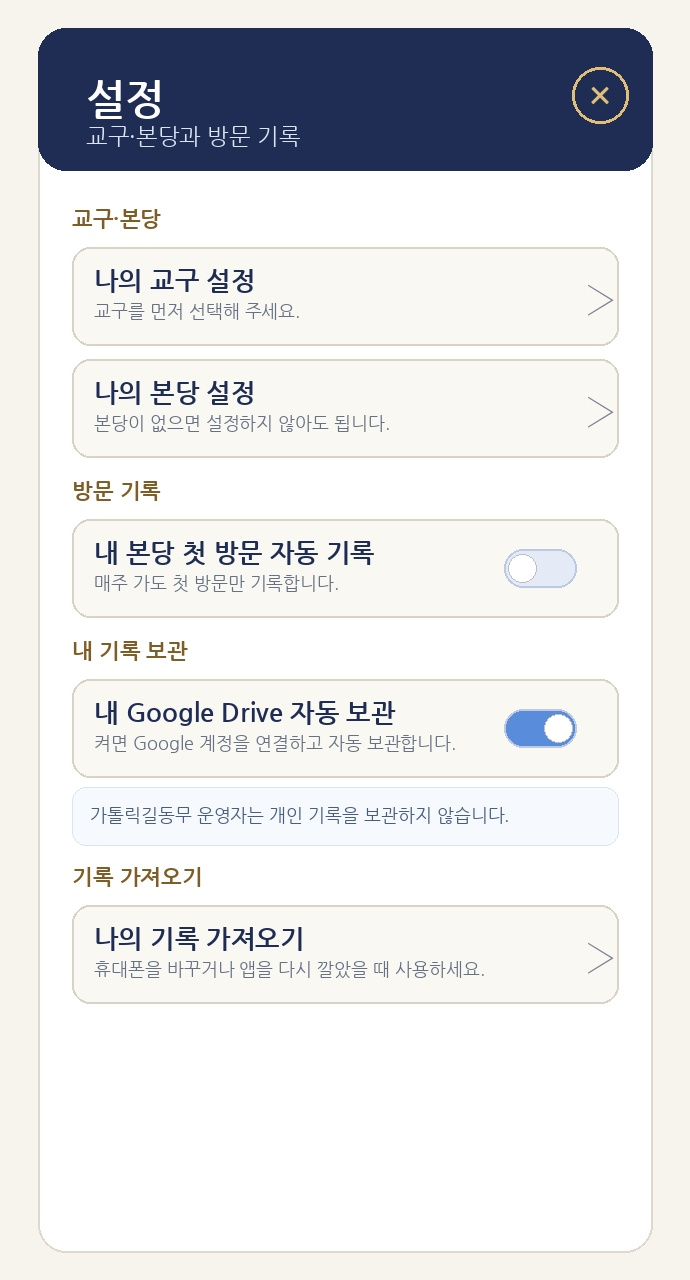
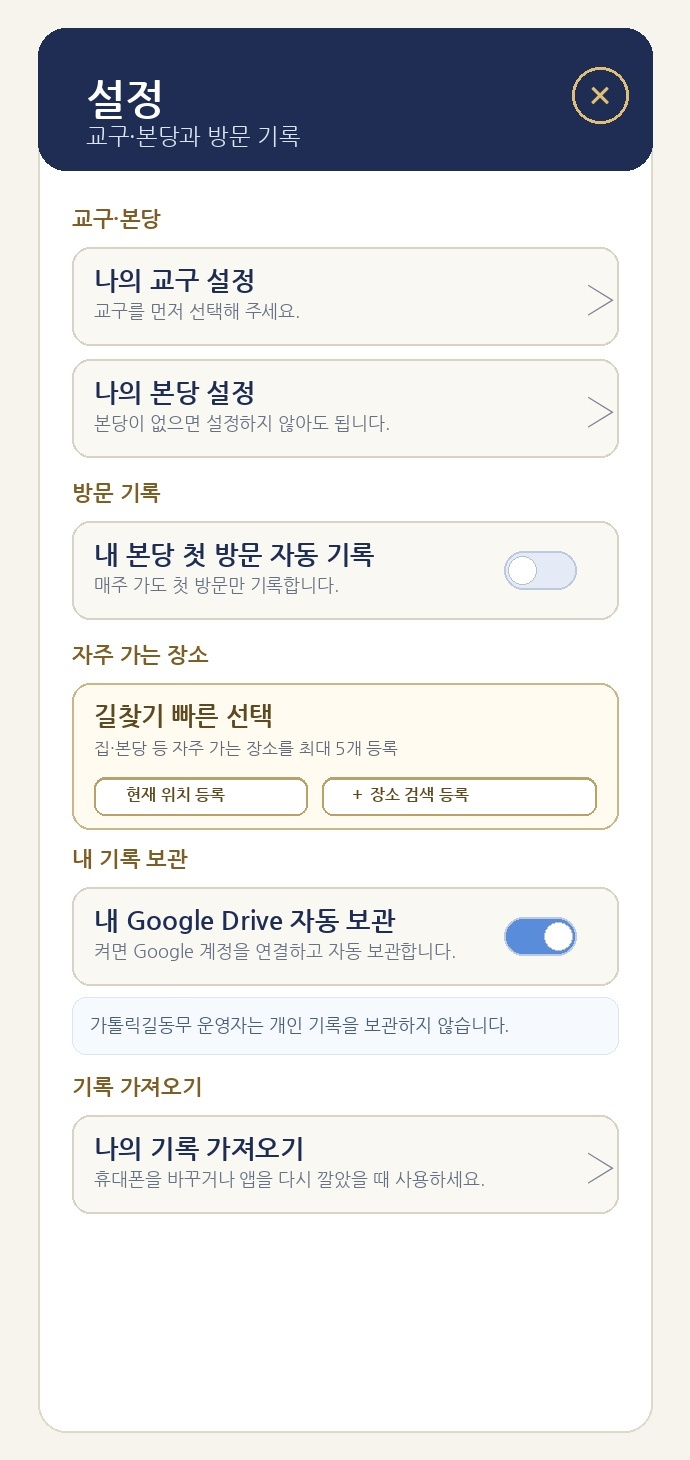
Add files via upload

diff --git a/index.html b/index.html
@@ -956,7 +956,7 @@ window.APP_CONFIG = {
 <link href="https://fonts.googleapis.com/css2?family=Noto+Sans+KR:wght@400;500;600;700&display=swap" rel="stylesheet">
 
 <style id="oai-initial-bg">html,body{margin:0;width:100%;height:100%;min-height:100%;background:#f5f0e8;overflow:hidden;color-scheme:light;}#cover{background:#f5f0e8;min-height:100%;}#app{background:#f8f6f2;display:none;}</style>
-<link rel="stylesheet" href="style.css?v=V8-1-14-842">
+<link rel="stylesheet" href="style.css?v=V8-1-14-844">
 <link rel="stylesheet" href="css/module-common.css?v=V8-1-14-825">
 <link rel="stylesheet" href="css/prayer.css?v=V8-1-14-825">
 <link rel="stylesheet" href="css/web.css?v=V8-1-14-825">
@@ -1112,7 +1112,7 @@ window.APP_CONFIG = {
           <button id="cover-share-btn" class="cover-share-main-btn" type="button" aria-label="앱 공유하기">앱 공유하기</button>
         </div>
         <div id="cover-update-box">
-          <button id="cover-update-btn" class="cover-refresh-main-btn" type="button" data-target-version="V8-1-14-843" aria-label="짧게 누르면 새로고침, 더 길게 누르면 앱 캐시 초기화">새로고침</button>
+          <button id="cover-update-btn" class="cover-refresh-main-btn" type="button" data-target-version="V8-1-14-844" aria-label="짧게 누르면 새로고침, 더 길게 누르면 앱 캐시 초기화">새로고침</button>
           <div id="cover-update-hint" aria-live="polite">아래 버전과 다릅니다. 눌러서 최신 파일을 다시 받아 주세요.</div>
         </div>
       </div>
@@ -1160,7 +1160,7 @@ window.APP_CONFIG = {
         <summary class="guide-section-title"><span>04</span><div><strong>설정</strong><small>교구·본당, 자동 기록, 내 기록 보관</small></div><i aria-hidden="true">⌄</i></summary>
         <div class="guide-shot-wrap"><img class="guide-shot guide-shot-cover" src="assets/guide/cover-home-marked.jpg?v=V8-1-14-843" alt="첫 화면 아래의 설정 버튼 위치 표시" loading="lazy"></div>
         <ol class="guide-steps"><li>첫 화면 아래 <b>설정</b>을 누릅니다.</li><li><b>나의 교구</b>를 먼저 설정합니다. 본당은 필요할 때만 선택하면 됩니다.</li><li><b>내 Google Drive 자동 보관</b>을 켜서 기록을 안전하게 보관합니다.</li></ol>
-        <div class="guide-manual-register"><b>설정 화면</b><div class="guide-manual-photo-grid"><figure><img src="assets/guide/settings-overview.jpg?v=V8-1-14-843" alt="설정 화면 구성"><figcaption><b>교구·본당 설정</b>, <b>내 본당 첫 방문 자동 기록</b>, <b>내 Google Drive 자동 보관</b>, <b>나의 기록 가져오기</b>를 한 화면에서 관리합니다.</figcaption></figure></div></div>
+        <div class="guide-manual-register"><b>설정 화면</b><div class="guide-manual-photo-grid"><figure><img src="assets/guide/settings-overview.jpg?v=V8-1-14-844" alt="설정 화면 구성"><figcaption><b>교구·본당</b>, <b>자주 가는 장소</b>, <b>방문 기록</b>, <b>Google Drive 자동 보관</b>, <b>기록 가져오기</b>를 한 화면에서 관리합니다.</figcaption></figure></div></div>
         <div class="guide-shot-wrap"><img class="guide-shot guide-shot-stamp-ui" src="assets/guide/stampbook-settings-marked.jpg?v=V8-1-14-843" alt="성당 스탬프북 오른쪽의 설정 아이콘 위치 표시" loading="lazy"></div>
         <div class="guide-tip"><b>나의 본당 자동 기록</b>을 켜면 매주 가도 첫 방문만 자동으로 남깁니다.</div>
         <div class="guide-tip"><b>내 Google Drive 자동 보관</b>을 켜면 방문 기록, 즐겨찾기, 교구·본당 설정을 내 Google Drive에 보관합니다. 가톨릭길동무 운영자는 개인 기록을 보관하지 않습니다.</div>
@@ -1219,7 +1219,7 @@ window.APP_CONFIG = {
   </div>
 </div>
 
-<script src="app.js?v=V8-1-14-842"></script>
+<script src="app.js?v=V8-1-14-844"></script>
 <script src="js/cover-common.js?v=V8-1-14-825"></script>
 <div id="oai-category-entry-veil" aria-hidden="true"></div>
 <div id="app"><div id="tabbar"><button id="tab-btn-nearby" class="tab-btn" data-tab="nearby"><span class="tab-icon">📍</span><span id="tab-nearby-lbl">내주변</span></button><button id="tab-btn-list" class="tab-btn" data-tab="list"><span class="tab-icon">📋</span><span id="tab-list-lbl">목록</span></button><button id="tab-btn-region" class="tab-btn" data-tab="region"><span class="tab-icon">🔍</span>지역검색
@@ -1229,27 +1229,27 @@ window.APP_CONFIG = {
             placeholder="지역명 또는 장소명 입력"
             autocomplete="off" autocorrect="off" autocapitalize="off" spellcheck="false" inputmode="search" enterkeyhint="done"></div><button id="region-search-btn" class="region-search-btn">검색</button></div></div><div class="category-source-note" aria-label="정보 출처"><span class="source-shrine">성지 정보는 CBCK 홈페이지를 참고했습니다.</span><span class="source-parish">성당 정보는 각 교구 홈페이지를 참고했습니다.</span><span class="source-retreat">피정의집 정보는 CBCK 및 각 교구 홈페이지를 참고했습니다.</span></div><div class="sheet-body" id="region-body"><div class="empty-msg">
         📍 여행지나 숙박 지역을 검색하면<br>근처 성지/성당 목록이 나타납니다
-      </div></div></div><div class="sheet" id="sheet-route"><button class="route-sheet-x" id="route-close-btn" type="button" aria-label="길찾기 닫기">×</button><div id="rs-top"><div class="rs-route-stack"><div id="rs-start-box" class="rs-start-box" data-route-role="start"><div class="rs-dot rs-dot-start"></div><span class="rs-lbl empty" id="rs-start-lbl">출발지를 선택하세요</span><button id="rs-myloc-btn" class="rs-myloc">📍 현위치</button><button class="rs-fav-save" id="rs-start-fav" type="button" data-route-fav="start" aria-label="출발지를 자주 가는 장소로 저장" title="자주 가는 장소 저장">☆</button><button class="rs-drag-handle" id="rs-start-drag" type="button" data-route-drag="start" aria-label="출발지 순서 이동" title="길게 눌러 순서 이동">⋮⋮</button><button class="rs-x" id="rs-start-x" aria-label="출발지 지우기">×</button></div><div class="rs-between-tools" id="rs-start-waypoint-tools"><button id="rs-swap-btn" class="rs-swap-btn" aria-label="출발지·도착지 바꾸기">⇅</button></div><div id="rs-waypoints-summary-box" class="rs-waypoints-summary-box"><div class="rs-dot rs-waypoints-summary-dot"></div><span class="rs-lbl filled" id="rs-waypoints-summary-lbl">경유지 없음</span></div>
-<div id="rs-waypoint-box" class="rs-waypoint-box" data-route-role="waypoint"><div class="rs-dot rs-dot-waypoint1"></div><span class="rs-lbl empty" id="rs-waypoint-lbl">경유지1을 선택하세요</span><button class="rs-fav-save" id="rs-waypoint-fav" type="button" data-route-fav="waypoint" aria-label="경유지1을 자주 가는 장소로 저장" title="자주 가는 장소 저장">☆</button><button class="rs-drag-handle" id="rs-waypoint-drag" type="button" data-route-drag="waypoint" aria-label="경유지1 순서 이동" title="길게 눌러 순서 이동">⋮⋮</button><button class="rs-x" id="rs-waypoint-x" aria-label="경유지1 지우기">×</button></div>
-<div id="rs-waypoint-end-tools" class="rs-between-tools rs-waypoint-end-tools"><button id="rs-swap-waypoint-end-btn" class="rs-swap-btn rs-swap-waypoint-end-btn" type="button" aria-label="경유지1·다음 지점 바꾸기">⇅</button></div>
-<div id="rs-waypoint2-box" class="rs-waypoint-box rs-waypoint2-box" data-route-role="waypoint2"><div class="rs-dot rs-dot-waypoint2"></div><span class="rs-lbl empty" id="rs-waypoint2-lbl">경유지2를 선택하세요</span><button class="rs-fav-save" id="rs-waypoint2-fav" type="button" data-route-fav="waypoint2" aria-label="경유지2를 자주 가는 장소로 저장" title="자주 가는 장소 저장">☆</button><button class="rs-drag-handle" id="rs-waypoint2-drag" type="button" data-route-drag="waypoint2" aria-label="경유지2 순서 이동" title="길게 눌러 순서 이동">⋮⋮</button><button class="rs-x" id="rs-waypoint2-x" aria-label="경유지2 지우기">×</button></div>
-<div id="rs-waypoint2-end-tools" class="rs-between-tools rs-waypoint2-end-tools"><button id="rs-swap-waypoint2-end-btn" class="rs-swap-btn rs-swap-waypoint2-end-btn" type="button" aria-label="경유지2·다음 지점 바꾸기">⇅</button></div>
-<div id="rs-waypoint3-box" class="rs-waypoint-box rs-waypoint3-box" data-route-role="waypoint3"><div class="rs-dot rs-dot-waypoint3"></div><span class="rs-lbl empty" id="rs-waypoint3-lbl">경유지3을 선택하세요</span><button class="rs-fav-save" id="rs-waypoint3-fav" type="button" data-route-fav="waypoint3" aria-label="경유지3을 자주 가는 장소로 저장" title="자주 가는 장소 저장">☆</button><button class="rs-drag-handle" id="rs-waypoint3-drag" type="button" data-route-drag="waypoint3" aria-label="경유지3 순서 이동" title="길게 눌러 순서 이동">⋮⋮</button><button class="rs-x" id="rs-waypoint3-x" aria-label="경유지3 지우기">×</button></div>
-<div id="rs-waypoint3-end-tools" class="rs-between-tools rs-waypoint3-end-tools"><button id="rs-swap-waypoint3-end-btn" class="rs-swap-btn rs-swap-waypoint3-end-btn" type="button" aria-label="경유지3·다음 지점 바꾸기">⇅</button></div>
-<div id="rs-waypoint4-box" class="rs-waypoint-box rs-waypoint4-box" data-route-role="waypoint4"><div class="rs-dot rs-dot-waypoint4"></div><span class="rs-lbl empty" id="rs-waypoint4-lbl">경유지4를 선택하세요</span><button class="rs-fav-save" id="rs-waypoint4-fav" type="button" data-route-fav="waypoint4" aria-label="경유지4를 자주 가는 장소로 저장" title="자주 가는 장소 저장">☆</button><button class="rs-drag-handle" id="rs-waypoint4-drag" type="button" data-route-drag="waypoint4" aria-label="경유지4 순서 이동" title="길게 눌러 순서 이동">⋮⋮</button><button class="rs-x" id="rs-waypoint4-x" aria-label="경유지4 지우기">×</button></div>
-<div id="rs-waypoint4-end-tools" class="rs-between-tools rs-waypoint4-end-tools"><button id="rs-swap-waypoint4-end-btn" class="rs-swap-btn rs-swap-waypoint4-end-btn" type="button" aria-label="경유지4·다음 지점 바꾸기">⇅</button></div>
-<div id="rs-waypoint5-box" class="rs-waypoint-box rs-waypoint5-box" data-route-role="waypoint5"><div class="rs-dot rs-dot-waypoint5"></div><span class="rs-lbl empty" id="rs-waypoint5-lbl">경유지5를 선택하세요</span><button class="rs-fav-save" id="rs-waypoint5-fav" type="button" data-route-fav="waypoint5" aria-label="경유지5를 자주 가는 장소로 저장" title="자주 가는 장소 저장">☆</button><button class="rs-drag-handle" id="rs-waypoint5-drag" type="button" data-route-drag="waypoint5" aria-label="경유지5 순서 이동" title="길게 눌러 순서 이동">⋮⋮</button><button class="rs-x" id="rs-waypoint5-x" aria-label="경유지5 지우기">×</button></div>
-<div id="rs-waypoint5-end-tools" class="rs-between-tools rs-waypoint5-end-tools"><button id="rs-swap-waypoint5-end-btn" class="rs-swap-btn rs-swap-waypoint5-end-btn" type="button" aria-label="경유지5·도착지 바꾸기">⇅</button></div><div id="rs-end-box" class="rs-end-box" data-route-role="end"><div class="rs-dot rs-dot-end"></div><span class="rs-lbl empty" id="rs-end-lbl">도착지를 선택하세요</span><button class="rs-fav-save" id="rs-end-fav" type="button" data-route-fav="end" aria-label="도착지를 자주 가는 장소로 저장" title="자주 가는 장소 저장">☆</button><button class="rs-drag-handle" id="rs-end-drag" type="button" data-route-drag="end" aria-label="도착지 순서 이동" title="길게 눌러 순서 이동">⋮⋮</button><button class="rs-x" id="rs-end-x" aria-label="도착지 지우기">×</button></div></div><div class="rs-action-row"><button id="rs-search-btn">
+      </div></div></div><div class="sheet" id="sheet-route"><button class="route-sheet-x" id="route-close-btn" type="button" aria-label="길찾기 닫기">×</button><div id="rs-top"><div class="rs-route-stack"><div id="rs-start-box" class="rs-start-box" data-route-role="start"><div class="rs-dot rs-dot-start"></div><span class="rs-lbl empty" id="rs-start-lbl">출발지를 선택하세요</span><button id="rs-start-quick" class="rs-quick-select" type="button" aria-label="출발지 빠른 선택">빠른선택</button><button class="rs-x" id="rs-start-x" aria-label="출발지 지우기">×</button></div><div class="rs-drag-slot rs-start-drag-slot" id="rs-start-waypoint-tools"><button class="rs-drag-handle" id="rs-start-drag" type="button" data-route-drag="start" aria-label="출발지 순서 이동" title="길게 눌러 순서 이동">⋮⋮</button></div><div id="rs-waypoints-summary-box" class="rs-waypoints-summary-box"><div class="rs-dot rs-waypoints-summary-dot"></div><span class="rs-lbl filled" id="rs-waypoints-summary-lbl">경유지 없음</span></div>
+<div id="rs-waypoint-box" class="rs-waypoint-box" data-route-role="waypoint"><div class="rs-dot rs-dot-waypoint1"></div><span class="rs-lbl empty" id="rs-waypoint-lbl">경유지1을 선택하세요</span><button class="rs-x" id="rs-waypoint-x" aria-label="경유지1 지우기">×</button></div>
+<div id="rs-waypoint-end-tools" class="rs-drag-slot rs-waypoint-drag-slot rs-waypoint1-drag-slot"><button class="rs-drag-handle" id="rs-waypoint-drag" type="button" data-route-drag="waypoint" aria-label="경유지1 순서 이동" title="길게 눌러 순서 이동">⋮⋮</button></div>
+<div id="rs-waypoint2-box" class="rs-waypoint-box rs-waypoint2-box" data-route-role="waypoint2"><div class="rs-dot rs-dot-waypoint2"></div><span class="rs-lbl empty" id="rs-waypoint2-lbl">경유지2를 선택하세요</span><button class="rs-x" id="rs-waypoint2-x" aria-label="경유지2 지우기">×</button></div>
+<div id="rs-waypoint2-end-tools" class="rs-drag-slot rs-waypoint-drag-slot rs-waypoint2-drag-slot"><button class="rs-drag-handle" id="rs-waypoint2-drag" type="button" data-route-drag="waypoint2" aria-label="경유지2 순서 이동" title="길게 눌러 순서 이동">⋮⋮</button></div>
+<div id="rs-waypoint3-box" class="rs-waypoint-box rs-waypoint3-box" data-route-role="waypoint3"><div class="rs-dot rs-dot-waypoint3"></div><span class="rs-lbl empty" id="rs-waypoint3-lbl">경유지3을 선택하세요</span><button class="rs-x" id="rs-waypoint3-x" aria-label="경유지3 지우기">×</button></div>
+<div id="rs-waypoint3-end-tools" class="rs-drag-slot rs-waypoint-drag-slot rs-waypoint3-drag-slot"><button class="rs-drag-handle" id="rs-waypoint3-drag" type="button" data-route-drag="waypoint3" aria-label="경유지3 순서 이동" title="길게 눌러 순서 이동">⋮⋮</button></div>
+<div id="rs-waypoint4-box" class="rs-waypoint-box rs-waypoint4-box" data-route-role="waypoint4"><div class="rs-dot rs-dot-waypoint4"></div><span class="rs-lbl empty" id="rs-waypoint4-lbl">경유지4를 선택하세요</span><button class="rs-x" id="rs-waypoint4-x" aria-label="경유지4 지우기">×</button></div>
+<div id="rs-waypoint4-end-tools" class="rs-drag-slot rs-waypoint-drag-slot rs-waypoint4-drag-slot"><button class="rs-drag-handle" id="rs-waypoint4-drag" type="button" data-route-drag="waypoint4" aria-label="경유지4 순서 이동" title="길게 눌러 순서 이동">⋮⋮</button></div>
+<div id="rs-waypoint5-box" class="rs-waypoint-box rs-waypoint5-box" data-route-role="waypoint5"><div class="rs-dot rs-dot-waypoint5"></div><span class="rs-lbl empty" id="rs-waypoint5-lbl">경유지5를 선택하세요</span><button class="rs-x" id="rs-waypoint5-x" aria-label="경유지5 지우기">×</button></div>
+<div id="rs-waypoint5-end-tools" class="rs-drag-slot rs-waypoint-drag-slot rs-waypoint5-drag-slot"><button class="rs-drag-handle" id="rs-waypoint5-drag" type="button" data-route-drag="waypoint5" aria-label="경유지5 순서 이동" title="길게 눌러 순서 이동">⋮⋮</button></div><div id="rs-end-box" class="rs-end-box" data-route-role="end"><div class="rs-dot rs-dot-end"></div><span class="rs-lbl empty" id="rs-end-lbl">도착지를 선택하세요</span><button id="rs-end-quick" class="rs-quick-select" type="button" aria-label="도착지 빠른 선택">빠른선택</button><button class="rs-x" id="rs-end-x" aria-label="도착지 지우기">×</button></div><div id="rs-end-drag-slot" class="rs-drag-slot rs-end-drag-slot"><button class="rs-drag-handle" id="rs-end-drag" type="button" data-route-drag="end" aria-label="도착지 순서 이동" title="길게 눌러 순서 이동">⋮⋮</button></div></div><div class="rs-action-row"><button id="rs-search-btn">
         🔍 경로 검색
-      </button><button id="rs-add-waypoint-btn" class="rs-add-waypoint-btn" type="button">+ 경유지</button></div><section id="route-itinerary" class="route-itinerary" aria-label="전체 순례 일정" hidden><div class="route-itinerary-head"><strong>전체 순례 일정</strong><button id="route-itinerary-toggle" type="button" aria-expanded="true">접기</button></div><div id="route-itinerary-summary" class="route-itinerary-summary"></div><div id="route-itinerary-list" class="route-itinerary-list"></div></section></div><div id="rs-bottom"><div id="rs-result-tip" class="rs-result-tip" aria-live="polite">마커를 클릭하면 목적지를 변경할 수 있습니다</div><div id="rs-result"><div class="rs-result"><div class="rs-stats"><div class="rs-stat"><div class="rs-stat-lbl">🛣 도로 거리</div><div class="rs-stat-val"><span id="rs-km">—</span><span class="rs-stat-unit"> km</span></div></div><div class="rs-stat"><div class="rs-stat-lbl">🚗 소요시간</div><div class="rs-stat-val"><span id="rs-time">—</span></div></div></div><div class="rs-note" id="rs-note"></div><div class="route-btns"><button id="rs-kakao-btn" class="btn-kakao-route">🗺 카카오내비</button><button id="rs-reset-btn" class="btn-route-reset">↩ 다시선택</button></div></div></div><div class="rs-hint" id="rs-hint" aria-hidden="true"></div></div></div><div id="info-card"><div class="ic-header"><div class="ic-name" id="ic-name"></div><span class="ic-type-badge" id="ic-type"></span><button id="ic-close-btn" class="ic-close-btn" aria-label="닫기">×</button></div><div class="ic-body"><div class="ic-meta"><div class="ic-meta-left"><span class="ic-sub" id="ic-sub"></span><span class="ic-shrine-kind" id="ic-shrine-kind" style="display:none"></span></div><div class="ic-dist-col" id="ic-dist-col"><div class="ic-dist-lbl">내 위치에서</div><div class="ic-dist-box" id="ic-dist"></div></div></div><div class="ic-addr-row"><div class="ic-addr-left"><div class="ic-addr-lbl"></div><div class="ic-addr-val" id="ic-addr"></div></div></div><div class="ic-btn-row"><a class="ic-tel-btn" id="ic-tel-link" href="#" style="display:none"><span class="ic-tel-icon">📞</span><span class="ic-tel" id="ic-tel"></span></a><button id="ic-route-btn" class="ic-route-btn">경로검색</button></div><div class="ic-links" id="ic-links-row" style="display:none"><a class="ic-link-btn ic-hp-btn" id="ic-hp" href="#" target="_blank" style="display:none">홈페이지</a><button class="ic-link-btn ic-guide-btn" id="ic-guide" style="display:none">성지 상세페이지</button></div><div class="ic-kakao-row" id="ic-kakao-row"><button class="ic-link-btn ic-goodnews-btn" id="ic-goodnews" style="display:none">굿뉴스 성지안내</button><button class="btn-kakao-nav" id="ic-kakao-nav">카카오내비</button></div></div></div><div id="route-choice-modal" role="dialog" aria-modal="true" aria-label="경로검색 선택"><div id="route-choice-backdrop" class="route-choice-backdrop"></div><div class="route-choice-panel"><div class="route-choice-title" id="route-choice-name"></div><div class="route-choice-desc">이 장소를 길찾기에 어떻게 사용할까요?</div><div class="route-choice-actions"><button type="button" id="route-choice-start" class="route-choice-btn start">출발지로 설정</button><button type="button" id="route-choice-end" class="route-choice-btn end">도착지로 설정</button><button type="button" id="route-choice-waypoint" class="route-choice-btn waypoint">경유지로 설정</button><button type="button" id="route-choice-cancel" class="route-choice-btn cancel">취소</button></div></div></div><div id="srch-modal" role="dialog" aria-modal="true" aria-label="장소 검색"><div class="sm-inner"><div class="sm-hd"><span class="sm-title" id="sm-title">성지 검색</span><button id="sm-close-btn" class="sm-x" aria-label="검색 닫기">×</button></div><div class="sm-filter" id="sm-filter-bar"></div><div class="sm-srch"><div class="sm-si"><span>🔍</span><input type="text" id="sm-inp" placeholder="이름 또는 장소 입력" aria-label="장소 이름 입력"
-            autocomplete="off" autocorrect="off" autocapitalize="off" spellcheck="false" inputmode="search" enterkeyhint="done"></div><button type="button" id="sm-map-select-btn" class="sm-map-select-btn">지도에서 선택</button></div><section id="sm-frequent-places" class="sm-frequent-places" aria-label="자주 가는 장소"><div class="sm-frequent-head"><strong>자주 가는 장소</strong><span>최대 5개</span></div><div id="sm-frequent-list" class="sm-frequent-list"></div></section><div id="sm-tab-bar"><button class="sm-tab active" id="sm-tab-all">전체</button><button class="sm-tab" id="sm-tab-cat">가톨릭 장소</button><button class="sm-tab" id="sm-tab-place">일반 장소</button></div><div class="sm-body" id="sm-body-all"></div><div class="sm-body" id="sm-body" style="display:none;"></div><div class="sm-body" id="sm-body-place" style="display:none;"></div></div></div></div>
+      </button><button id="rs-add-waypoint-btn" class="rs-add-waypoint-btn" type="button">+ 경유지</button></div><section id="route-itinerary" class="route-itinerary" aria-label="전체 순례 일정" hidden><div class="route-itinerary-head"><strong>전체 순례 일정</strong><button id="route-itinerary-toggle" type="button" aria-expanded="true">접기</button></div><div id="route-itinerary-summary" class="route-itinerary-summary"></div><div id="route-itinerary-list" class="route-itinerary-list"></div></section></div><div id="rs-bottom"><div id="rs-result-tip" class="rs-result-tip" aria-live="polite">마커를 클릭하면 목적지를 변경할 수 있습니다</div><div id="rs-result"><div class="rs-result"><div class="rs-stats"><div class="rs-stat"><div class="rs-stat-lbl">🛣 도로 거리</div><div class="rs-stat-val"><span id="rs-km">—</span><span class="rs-stat-unit"> km</span></div></div><div class="rs-stat"><div class="rs-stat-lbl">🚗 소요시간</div><div class="rs-stat-val"><span id="rs-time">—</span></div></div></div><div class="rs-note" id="rs-note"></div><div class="route-btns"><button id="rs-kakao-btn" class="btn-kakao-route">🗺 카카오내비</button><button id="rs-reset-btn" class="btn-route-reset">↩ 다시선택</button></div></div></div><div class="rs-hint" id="rs-hint" aria-hidden="true"></div></div></div><div id="info-card"><div class="ic-header"><div class="ic-name" id="ic-name"></div><span class="ic-type-badge" id="ic-type"></span><button id="ic-close-btn" class="ic-close-btn" aria-label="닫기">×</button></div><div class="ic-body"><div class="ic-meta"><div class="ic-meta-left"><span class="ic-sub" id="ic-sub"></span><span class="ic-shrine-kind" id="ic-shrine-kind" style="display:none"></span></div><div class="ic-dist-col" id="ic-dist-col"><div class="ic-dist-lbl">내 위치에서</div><div class="ic-dist-box" id="ic-dist"></div></div></div><div class="ic-addr-row"><div class="ic-addr-left"><div class="ic-addr-lbl"></div><div class="ic-addr-val" id="ic-addr"></div></div></div><div class="ic-btn-row"><a class="ic-tel-btn" id="ic-tel-link" href="#" style="display:none"><span class="ic-tel-icon">📞</span><span class="ic-tel" id="ic-tel"></span></a><button id="ic-route-btn" class="ic-route-btn">경로검색</button></div><div class="ic-links" id="ic-links-row" style="display:none"><a class="ic-link-btn ic-hp-btn" id="ic-hp" href="#" target="_blank" style="display:none">홈페이지</a><button class="ic-link-btn ic-guide-btn" id="ic-guide" style="display:none">성지 상세페이지</button></div><div class="ic-kakao-row" id="ic-kakao-row"><button class="ic-link-btn ic-goodnews-btn" id="ic-goodnews" style="display:none">굿뉴스 성지안내</button><button class="btn-kakao-nav" id="ic-kakao-nav">카카오내비</button></div></div></div><div id="route-choice-modal" role="dialog" aria-modal="true" aria-label="경로검색 선택"><div id="route-choice-backdrop" class="route-choice-backdrop"></div><div class="route-choice-panel"><div class="route-choice-title" id="route-choice-name"></div><div class="route-choice-desc">이 장소를 길찾기에 어떻게 사용할까요?</div><div class="route-choice-actions"><button type="button" id="route-choice-start" class="route-choice-btn start">출발지로 설정</button><button type="button" id="route-choice-end" class="route-choice-btn end">도착지로 설정</button><button type="button" id="route-choice-waypoint" class="route-choice-btn waypoint">경유지로 설정</button><button type="button" id="route-choice-cancel" class="route-choice-btn cancel">취소</button></div></div></div><div id="route-quick-modal" class="route-quick-modal" role="dialog" aria-modal="true" aria-labelledby="route-quick-title" aria-hidden="true"><div class="route-quick-backdrop" data-route-quick-close="1"></div><div class="route-quick-panel"><div class="route-quick-head"><div><strong id="route-quick-title">빠른 선택</strong><small>현재 위치 또는 설정에 등록한 장소를 선택하세요.</small></div><button type="button" data-route-quick-close="1" aria-label="빠른 선택 닫기">×</button></div><div id="route-quick-list" class="route-quick-list"></div><button type="button" class="route-quick-settings" data-route-quick-settings="1">설정에서 자주 가는 장소 관리</button></div></div><div id="srch-modal" role="dialog" aria-modal="true" aria-label="장소 검색"><div class="sm-inner"><div class="sm-hd"><span class="sm-title" id="sm-title">성지 검색</span><button id="sm-close-btn" class="sm-x" aria-label="검색 닫기">×</button></div><div class="sm-filter" id="sm-filter-bar"></div><div class="sm-srch"><div class="sm-si"><span>🔍</span><input type="text" id="sm-inp" placeholder="이름 또는 장소 입력" aria-label="장소 이름 입력"
+            autocomplete="off" autocorrect="off" autocapitalize="off" spellcheck="false" inputmode="search" enterkeyhint="done"></div><button type="button" id="sm-map-select-btn" class="sm-map-select-btn">지도에서 선택</button></div><div id="sm-tab-bar"><button class="sm-tab active" id="sm-tab-all">전체</button><button class="sm-tab" id="sm-tab-cat">가톨릭 장소</button><button class="sm-tab" id="sm-tab-place">일반 장소</button></div><div class="sm-body" id="sm-body-all"></div><div class="sm-body" id="sm-body" style="display:none;"></div><div class="sm-body" id="sm-body-place" style="display:none;"></div></div></div></div>
 <div id="oai-settings-modal" class="oai-settings-modal" aria-hidden="true">
   <div class="oai-settings-backdrop" data-oai-settings-close="1"></div>
   <section class="oai-settings-panel" role="dialog" aria-modal="true" aria-labelledby="oai-settings-title">
     <header class="oai-settings-head"><div><h2 id="oai-settings-title">설정</h2><p>교구·본당과 방문 기록</p></div><button type="button" data-oai-settings-close="1" aria-label="설정 닫기">×</button></header>
     <div class="oai-settings-body">
       <section class="oai-settings-group"><h3>교구·본당</h3><div id="oai-settings-diocese-parish-row" class="oai-settings-row oai-settings-edit-row" data-oai-settings-edit="1" role="button" tabindex="0" aria-label="나의 교구와 본당 설정" hidden><span><b id="oai-settings-diocese-parish-summary">나의 교구와 본당</b><small>나의 교구와 본당 홈페이지는 가톨릭 웹사이트 즐겨찾기 제일 위에서 확인하세요.</small></span><i class="oai-settings-arrow" aria-hidden="true">›</i></div><div id="oai-settings-diocese-row" class="oai-settings-row oai-settings-edit-row" data-oai-settings-diocese="1" role="button" tabindex="0" aria-label="나의 교구 설정"><span><b id="oai-settings-diocese-summary">나의 교구 설정</b><small>교구 홈페이지는 가톨릭 웹사이트 즐겨찾기 제일 위에서 확인하세요.</small></span><i class="oai-settings-arrow" aria-hidden="true">›</i></div><div id="oai-settings-parish-row" class="oai-settings-row oai-settings-edit-row" data-oai-settings-parish="1" role="button" tabindex="0" aria-label="나의 본당 설정"><span><b id="oai-settings-parish-summary">나의 본당 설정</b><small>본당이 없으면 설정하지 않아도 됩니다.</small></span><i class="oai-settings-arrow" aria-hidden="true">›</i></div></section>
-      <section class="oai-settings-group"><h3>방문 기록</h3><div class="oai-settings-row oai-settings-switch-row"><span><b>내 본당 첫 방문 자동 기록</b><small>매주 가도 첫 방문만 기록합니다.</small></span><label class="oai-settings-switch"><input id="oai-settings-auto-visit" type="checkbox" role="switch" aria-label="내 본당 첫 방문 자동 기록"><i aria-hidden="true"></i></label></div></section>
+      <section class="oai-settings-group"><h3>방문 기록</h3><div class="oai-settings-row oai-settings-switch-row"><span><b>내 본당 첫 방문 자동 기록</b><small>매주 가도 첫 방문만 기록합니다.</small></span><label class="oai-settings-switch"><input id="oai-settings-auto-visit" type="checkbox" role="switch" aria-label="내 본당 첫 방문 자동 기록"><i aria-hidden="true"></i></label></div></section><section class="oai-settings-group"><h3>자주 가는 장소</h3><div class="oai-settings-frequent-info"><b>길찾기 빠른 선택</b><p>집, 본당처럼 자주 출발하거나 도착하는 장소를 최대 5개까지 등록할 수 있습니다. 길찾기의 <b>빠른선택</b>에서 현재 위치와 함께 바로 선택할 수 있습니다.</p></div><div id="oai-settings-frequent-list" class="oai-settings-frequent-list"></div><div class="oai-settings-frequent-actions"><button type="button" data-oai-frequent-current="1">📍 현재 위치 등록</button><button type="button" data-oai-frequent-add="1">＋ 장소 검색 등록</button></div></section>
       <section class="oai-settings-group"><h3>내 기록 보관</h3><div class="oai-settings-row oai-settings-switch-row"><span><b class="oai-drive-setting-title">내 Google Drive 자동 보관</b><small class="oai-google-drive-description">켜면 Google 계정을 연결하고 기록을 자동으로 보관합니다.</small></span><label class="oai-settings-switch"><input id="oai-settings-google-drive-auto" data-oai-google-auto="1" type="checkbox" role="switch" aria-label="내 Google Drive에 자동 보관"><i aria-hidden="true"></i></label></div><p class="oai-settings-note oai-google-drive-note">가톨릭길동무 운영자는 개인 기록을 보관하지 않습니다.</p></section>
       <section class="oai-settings-group"><h3>기록 가져오기</h3><div class="oai-settings-row oai-settings-edit-row" data-oai-records-open="1" role="button" tabindex="0" aria-label="나의 기록 가져오기"><span><b>나의 기록 가져오기</b><small>휴대폰을 바꾸거나 앱을 다시 깔았을 때 사용하세요.</small></span><i class="oai-settings-arrow" aria-hidden="true">›</i></div></section>
     </div>

diff --git a/app.js b/app.js
@@ -8790,16 +8790,19 @@ function _routeWaypointColor(role){
 function _routeRoleColor(role){
   if(role==='start') return '#E53935';
   if(role==='end') return '#2E7D32';
+  if(role==='frequent-register') return '#5b6f89';
   return _routeWaypointColor(role);
 }
 function _routeRoleShort(role){
   if(role==='start') return '출';
   if(role==='end') return '도';
+  if(role==='frequent-register') return '저장';
   return '경'+_routeWaypointIndex(role);
 }
 function _routeSearchTitle(role,noun){
   if(role==='start') return `🔵 출발 ${noun} 검색`;
   if(role==='end') return `🔴 도착 ${noun} 검색`;
+  if(role==='frequent-register') return `📌 자주 가는 ${noun} 검색`;
   return `🟠 경유지${_routeWaypointIndex(role)} ${noun} 검색`;
 }
 function _routeWaypointMarkerText(role){
@@ -11232,8 +11235,8 @@ function _syncRouteWaypointBoxes(){
   }
   const tools0=$('rs-start-waypoint-tools');
   const swap0=$('rs-swap-btn');
-  if(tools0) tools0.style.display=resultShowing?'none':'block';
-  if(swap0) swap0.style.display=resultShowing?'none':'flex';
+  if(tools0) tools0.style.display=resultShowing?'none':'flex';
+  if(swap0) swap0.style.display='none';
 }
 
 function _ensureRouteWaypointBox(role){
@@ -11349,7 +11352,89 @@ function _removeRouteFrequentPlace(index){
   const list=_loadRouteFavorites();
   if(index<0||index>=list.length) return;
   list.splice(index,1); _saveRouteFavorites(list);
-  _renderRouteFrequentPlaces(); _updateAllRouteFavoriteButtons();
+  _renderRouteFrequentPlaces(); _updateAllRouteFavoriteButtons(); _renderRouteFrequentSettings();
+}
+function _addRouteFrequentPlace(point){
+  if(!point||!point.name||!Number.isFinite(Number(point.lat))||!Number.isFinite(Number(point.lng))) return false;
+  let list=_loadRouteFavorites();
+  if(list.some(function(f){return _routeFavoriteSame(f,point);})){ alert('이미 등록된 장소입니다.'); return false; }
+  if(list.length>=OAI_ROUTE_FAVORITES_MAX){ alert('자주 가는 장소는 최대 '+OAI_ROUTE_FAVORITES_MAX+'개까지 등록할 수 있습니다.'); return false; }
+  list.push({name:String(point.name||'장소').trim(),addr:String(point.addr||''),lat:Number(point.lat),lng:Number(point.lng),sourceMode:String(point.sourceMode||_mode||''),savedAt:Date.now()});
+  _saveRouteFavorites(list);
+  _renderRouteFrequentSettings();
+  return true;
+}
+function _renderRouteFrequentSettings(){
+  const body=$('oai-settings-frequent-list');
+  if(!body) return;
+  const list=_loadRouteFavorites();
+  if(!list.length){ body.innerHTML='<div class="oai-settings-frequent-empty">아직 등록된 장소가 없습니다. 아래 버튼으로 집, 본당, 직장 등 자주 이용하는 장소를 등록하세요.</div>'; return; }
+  body.innerHTML=list.map(function(f,i){
+    return '<div class="oai-settings-frequent-item"><span><b>'+_placeText(f.name)+'</b><small>'+_placeText(f.addr||'등록된 장소')+'</small></span><button type="button" data-oai-frequent-remove="'+i+'" aria-label="'+_placeText(f.name)+' 삭제">×</button></div>';
+  }).join('');
+}
+function _registerFrequentCurrentLocation(){
+  if(_loadRouteFavorites().length>=OAI_ROUTE_FAVORITES_MAX){ alert('자주 가는 장소는 최대 '+OAI_ROUTE_FAVORITES_MAX+'개까지 등록할 수 있습니다.'); return; }
+  const name=String(prompt('현재 위치를 어떤 이름으로 저장할까요? 예: 집, 월배성당','집')||'').trim();
+  if(!name) return;
+  function save(lat,lng){
+    if(_addRouteFrequentPlace({name:name,addr:'현재 위치에서 등록',lat:Number(lat),lng:Number(lng),sourceMode:'current-location'})) _showRouteGuideText(name+'을(를) 자주 가는 장소에 등록했습니다');
+  }
+  if(!_GEO){
+    const used=_useStoredLocationIfAny(function(lat,lng){save(lat,lng);},OAI_LOCATION_CACHE_MAX_MS);
+    if(!used) alert('위치 정보를 가져올 수 없습니다.');
+    return;
+  }
+  _refreshFreshLocationThen(function(lat,lng){save(lat,lng);},function(){
+    const used=_useStoredLocationIfAny(function(lat,lng){save(lat,lng);},OAI_LOCATION_CACHE_MAX_MS);
+    if(!used) alert('위치 정보를 가져올 수 없습니다.');
+  });
+}
+function _registerFrequentFromSearch(item){
+  if(!item) return false;
+  const ok=_addRouteFrequentPlace({name:item.name||'장소',addr:item.addr||item.road_address_name||item.address_name||'',lat:Number(item.lat),lng:Number(item.lng),sourceMode:_mode||''});
+  if(ok){
+    closeSearchModal();
+    setTimeout(function(){ if(typeof window.openOaiSettings==='function') window.openOaiSettings({fromFrequentRegister:true}); },30);
+  }
+  return ok;
+}
+let _routeQuickRole='start';
+function _renderRouteQuickList(){
+  const body=$('route-quick-list'); if(!body) return;
+  const list=_loadRouteFavorites();
+  let html='<button type="button" class="route-quick-item current" data-route-quick-current="1"><span class="icon">📍</span><span><b>현재 위치</b><small>휴대폰의 현재 위치를 사용합니다.</small></span></button>';
+  html+=list.map(function(f,i){return '<button type="button" class="route-quick-item" data-route-quick-index="'+i+'"><span class="icon">★</span><span><b>'+_placeText(f.name)+'</b><small>'+_placeText(f.addr||'등록된 장소')+'</small></span></button>';}).join('');
+  if(!list.length) html+='<div class="route-quick-empty">등록된 자주 가는 장소가 없습니다. 설정에서 최대 5개까지 등록할 수 있습니다.</div>';
+  body.innerHTML=html;
+}
+function _openRouteQuick(role){
+  if(role!=='start'&&role!=='end') return;
+  _routeQuickRole=role;
+  const m=$('route-quick-modal'); if(!m) return;
+  const title=$('route-quick-title'); if(title) title.textContent=(role==='start'?'출발지':'도착지')+' 빠른 선택';
+  _renderRouteQuickList();
+  m.classList.add('show'); m.setAttribute('aria-hidden','false');
+}
+function _closeRouteQuick(){const m=$('route-quick-modal');if(!m)return;m.classList.remove('show');m.setAttribute('aria-hidden','true');}
+function _setCurrentLocationForRouteRole(role){
+  function apply(lat,lng,fromCache){
+    if(!fromCache) _setMyLoc(lat,lng); else {_myLat=lat;_myLng=lng;}
+    if(role==='start'){
+      _routeRegionStart=null; _routeStartMarkerExplicitCurrent=true;
+      _rS={idx:-1,name:'현재 위치',lat:Number(lat),lng:Number(lng),isImplicitCurrentLocation:false,showStartMarker:true};
+      _setRouteLabel('start','현위치'); _refreshRouteTmpMarkers(); _updateSearchBtn();
+    }else{
+      _setRoutePointFromItem('end',{name:'현재 위치',addr:'',lat:Number(lat),lng:Number(lng)},-1);
+    }
+  }
+  const used=_useStoredLocationIfAny(function(lat,lng){apply(lat,lng,true);},OAI_LOCATION_CACHE_MAX_MS);
+  if(!_GEO){if(!used)alert('위치 정보를 가져올 수 없습니다.');return;}
+  _refreshFreshLocationThen(function(lat,lng){apply(lat,lng,false);},function(){if(!used)alert('위치 정보를 가져올 수 없습니다.');});
+}
+function _useQuickFrequent(index){
+  const f=_loadRouteFavorites()[index]; if(!f) return;
+  _setRoutePointFromItem(_routeQuickRole,{name:f.name,addr:f.addr||'',lat:f.lat,lng:f.lng},-1);
 }
 function _routeItineraryEntries(){
   const out=[];
@@ -12289,6 +12374,7 @@ function _searchKakaoPlace(q){
 function selectFromPlaceModal(lat,lng,name,addr){
   const role=_smRole;
   const locObj={idx:-1,name:name,addr:addr||'',lat:lat,lng:lng};
+  if(role==='frequent-register'){ _registerFrequentFromSearch(locObj); return; }
   closeSearchModal();
   if(!_activeTab||_activeTab!=='route') openTab('route');
   else _enterRouteMode();
@@ -12299,6 +12385,7 @@ function _selectCatholicRouteResult(record){
   if(!record||!record.item) return;
   const role=_smRole;
   const item=record.item;
+  if(role==='frequent-register'){ _registerFrequentFromSearch(item); return; }
   closeSearchModal();
   if(!_activeTab||_activeTab!=='route') openTab('route');
   else _enterRouteMode();
@@ -12334,6 +12421,7 @@ function _installSearchResultDelegate(body){
 function openSearchModal(role){
   closeInfoCard({keepMap:true});
   _smRole=role;_smDio='all';_smTab='all';
+  const frequentRegisterMode=role==='frequent-register';
   ['all','cat','place'].forEach(function(name){ const btn=$('sm-tab-'+name); if(btn) btn.classList.toggle('active',name==='all'); });
   requestAnimationFrame(function(){
     try{ $('sm-tab-all')?.scrollIntoView({behavior:'instant',block:'nearest',inline:'center'}); }catch(e){ console.warn('[가톨릭길동무]',e); }
@@ -12358,7 +12446,7 @@ function openSearchModal(role){
     smInput.setAttribute('aria-label',smPh);
     smInput.value='';
   }
-  _renderRouteFrequentPlaces();
+  const mapSelectBtn=$('sm-map-select-btn'); if(mapSelectBtn) mapSelectBtn.style.display=frequentRegisterMode?'none':'';
   _setSmPrompt('all');
   const searchModal=$('srch-modal');
   if(searchModal){
@@ -12925,11 +13013,18 @@ document.addEventListener('DOMContentLoaded', function bindEvents() {
   on('rs-swap-waypoint4-end-btn', 'click', function(e) { if(e){ e.preventDefault(); e.stopPropagation(); } swapRouteWaypoint4End(); });
   on('rs-swap-waypoint5-end-btn', 'click', function(e) { if(e){ e.preventDefault(); e.stopPropagation(); } swapRouteWaypoint5End(); });
   _bindRouteDragHandles();
-  document.querySelectorAll('.rs-fav-save[data-route-fav]').forEach(function(btn){
-    if(btn.dataset.routeFavBound==='1') return;
-    btn.dataset.routeFavBound='1';
-    btn.addEventListener('click',function(e){ e.preventDefault(); e.stopPropagation(); _toggleRouteFavorite(btn.dataset.routeFav); });
-  });
+  on('rs-start-quick','click',function(e){if(e){e.preventDefault();e.stopPropagation();}_openRouteQuick('start');});
+  on('rs-end-quick','click',function(e){if(e){e.preventDefault();e.stopPropagation();}_openRouteQuick('end');});
+  const quickModal=$('route-quick-modal');
+  if(quickModal && quickModal.dataset.bound!=='1'){
+    quickModal.dataset.bound='1';
+    quickModal.addEventListener('click',function(e){
+      const close=e.target.closest('[data-route-quick-close]'); if(close){e.preventDefault();e.stopPropagation();_closeRouteQuick();return;}
+      const current=e.target.closest('[data-route-quick-current]'); if(current){e.preventDefault();e.stopPropagation();const role=_routeQuickRole;_closeRouteQuick();_setCurrentLocationForRouteRole(role);return;}
+      const use=e.target.closest('[data-route-quick-index]'); if(use){e.preventDefault();e.stopPropagation();const idx=parseInt(use.dataset.routeQuickIndex,10);_closeRouteQuick();_useQuickFrequent(idx);return;}
+      const settings=e.target.closest('[data-route-quick-settings]'); if(settings){e.preventDefault();e.stopPropagation();_closeRouteQuick();if(typeof window.openOaiSettings==='function')window.openOaiSettings({fromRouteQuick:true});}
+    });
+  }
   on('route-itinerary-toggle','click',function(e){
     if(e){e.preventDefault();e.stopPropagation();}
     const panel=$('route-itinerary'); if(!panel) return;
@@ -13228,6 +13323,7 @@ document.addEventListener('DOMContentLoaded', function bindEvents() {
     if(combinedSummary&&hasDioceseAndParish) combinedSummary.textContent=diocese+' · '+parish.name;
     if(input){ input.disabled=!parish; input.checked=parish ? _isMyParishAutoVisitEnabled() : false; }
     refreshGoogleDriveButton();
+    try{_renderRouteFrequentSettings();}catch(_e){}
   }
   function open(opts){
     const m=modal(); if(!m) return;
@@ -13616,4 +13712,24 @@ document.addEventListener('DOMContentLoaded', function bindEvents() {
   });
   document.addEventListener('change',function(e){if(e.target&&e.target.matches&&e.target.matches('[data-oai-google-auto]'))setGoogleDriveAutoBackup(!!e.target.checked);});
   setTimeout(startInitialOnboarding,650);
+})();
+
+
+/* V8-1-14-844: 설정에서 자주 가는 장소 등록/삭제 */
+(function installOaiFrequentPlaceSettings(){
+  if(window.__OAI_FREQUENT_SETTINGS_V844__) return;
+  window.__OAI_FREQUENT_SETTINGS_V844__=true;
+  document.addEventListener('click',function(e){
+    const t=e.target&&e.target.closest?e.target.closest('[data-oai-frequent-add],[data-oai-frequent-current],[data-oai-frequent-remove]'):null;
+    if(!t) return;
+    e.preventDefault();e.stopPropagation();
+    if(t.hasAttribute('data-oai-frequent-remove')){_removeRouteFrequentPlace(parseInt(t.getAttribute('data-oai-frequent-remove'),10));return;}
+    if(t.hasAttribute('data-oai-frequent-current')){_registerFrequentCurrentLocation();return;}
+    if(t.hasAttribute('data-oai-frequent-add')){
+      if(_loadRouteFavorites().length>=OAI_ROUTE_FAVORITES_MAX){alert('자주 가는 장소는 최대 '+OAI_ROUTE_FAVORITES_MAX+'개까지 등록할 수 있습니다.');return;}
+      if(typeof window.closeOaiSettings==='function') window.closeOaiSettings();
+      openSearchModal('frequent-register');
+    }
+  },true);
+  document.addEventListener('DOMContentLoaded',function(){try{_renderRouteFrequentSettings();}catch(_e){}},{once:true});
 })();

diff --git a/style.css b/style.css
@@ -6049,3 +6049,77 @@ html.ios-device #app #sheet-route.has-itinerary{max-height:min(64vh,540px)!impor
 html.oai-map-split-wide #sheet-route .route-itinerary{margin-top:8px;}
 html.oai-map-split-wide #sheet-route .route-itinerary-list{max-height:150px;}
 html.oai-map-split-wide #sheet-route.has-itinerary{max-height:none!important;overflow:hidden!important;}
+
+/* V8-1-14-844: 길찾기 빠른선택 + 박스 밖 드래그 손잡이 */
+.rs-quick-select{
+  flex:0 0 auto; min-width:68px; height:30px; padding:0 9px;
+  border:1.5px solid #9aa9bd; border-radius:15px; background:#fff;
+  color:#34445e; font-family:inherit; font-size:11.5px; font-weight:900;
+  line-height:1; white-space:nowrap; cursor:pointer; touch-action:manipulation;
+}
+.rs-start-box .rs-quick-select{border-color:#87a8d8;color:#1559a0;background:#f8fbff;}
+.rs-end-box .rs-quick-select{border-color:#d9a09b;color:#a53028;background:#fffafa;}
+.rs-quick-select:active{transform:scale(.97);}
+.rs-drag-slot{
+  grid-column:2; display:flex; align-items:center; justify-content:center;
+  width:72px; min-width:72px; height:44px; position:relative; z-index:20;
+}
+.rs-start-drag-slot{grid-row:1;}
+.rs-waypoint1-drag-slot{grid-row:3;}
+.rs-waypoint2-drag-slot{grid-row:5;}
+.rs-waypoint3-drag-slot{grid-row:7;}
+.rs-waypoint4-drag-slot{grid-row:9;}
+.rs-waypoint5-drag-slot{grid-row:11;}
+.rs-end-drag-slot{grid-row:3;}
+.rs-route-stack.has-waypoint .rs-end-drag-slot{grid-row:5;}
+.rs-route-stack.has-waypoint2 .rs-end-drag-slot{grid-row:7;}
+.rs-route-stack.has-waypoint3 .rs-end-drag-slot{grid-row:9;}
+.rs-route-stack.has-waypoint4 .rs-end-drag-slot{grid-row:11;}
+.rs-route-stack.has-waypoint5 .rs-end-drag-slot{grid-row:13;}
+.rs-route-stack.has-waypoint-summary .rs-end-drag-slot{grid-row:5!important;}
+.rs-drag-slot .rs-drag-handle{
+  display:none; width:52px; min-width:52px; height:36px; flex:0 0 52px;
+  border:1.5px solid #c6ccd5; border-radius:12px; background:#fff;
+  color:#596779; font-size:20px; letter-spacing:-4px; box-shadow:0 1px 4px rgba(31,42,68,.08);
+}
+.rs-drag-slot .rs-drag-handle:not([disabled]){display:flex;}
+.rs-drag-slot .rs-drag-handle.is-dragging{border-color:#4f79ad;background:#f3f7fd;}
+@media(max-width:430px){
+  .rs-quick-select{min-width:64px;padding:0 7px;font-size:11px;}
+  .rs-drag-slot .rs-drag-handle{width:50px;min-width:50px;flex-basis:50px;}
+}
+
+.route-quick-modal{display:none;position:fixed;inset:0;z-index:100260;align-items:flex-end;justify-content:center;font-family:inherit;}
+.route-quick-modal.show{display:flex;}
+.route-quick-backdrop{position:absolute;inset:0;background:rgba(13,24,45,.52);}
+.route-quick-panel{position:relative;z-index:1;width:min(560px,calc(100% - 24px));margin:0 12px max(12px,env(safe-area-inset-bottom,0px));padding:16px;border:1px solid #d8dce4;border-radius:22px;background:#fff;box-shadow:0 16px 42px rgba(20,33,58,.28);}
+.route-quick-head{display:flex;align-items:flex-start;justify-content:space-between;gap:12px;margin-bottom:13px;}
+.route-quick-head strong{display:block;color:#17213a;font-size:21px;font-weight:900;letter-spacing:-.04em;}
+.route-quick-head small{display:block;margin-top:4px;color:#667085;font-size:12.5px;font-weight:700;line-height:1.4;}
+.route-quick-head>button{width:38px;height:38px;flex:0 0 38px;border:1.5px solid #667085;border-radius:50%;background:#fff;color:#23304b;font-size:25px;font-weight:900;line-height:1;}
+.route-quick-list{display:flex;flex-direction:column;gap:8px;}
+.route-quick-item{display:flex;align-items:center;gap:10px;width:100%;min-height:54px;padding:10px 12px;border:1.5px solid #d7dce5;border-radius:14px;background:#fbfcfe;color:#17213a;text-align:left;font-family:inherit;cursor:pointer;}
+.route-quick-item.current{border-color:#8db0df;background:#f3f8ff;}
+.route-quick-item .icon{font-size:20px;}
+.route-quick-item span:not(.icon){min-width:0;display:flex;flex-direction:column;gap:2px;}
+.route-quick-item b{font-size:15px;font-weight:900;overflow:hidden;text-overflow:ellipsis;white-space:nowrap;}
+.route-quick-item small{color:#718096;font-size:11.5px;font-weight:650;overflow:hidden;text-overflow:ellipsis;white-space:nowrap;}
+.route-quick-empty{padding:11px 12px;border:1px dashed #cbd3df;border-radius:12px;background:#fafbfc;color:#697386;font-size:12px;font-weight:750;line-height:1.45;}
+.route-quick-settings{width:100%;height:45px;margin-top:12px;border:1.5px solid #b5a06e;border-radius:13px;background:#fffaf0;color:#6a5222;font-family:inherit;font-size:13px;font-weight:900;cursor:pointer;}
+
+/* 설정 > 자주 가는 장소 */
+.oai-settings-frequent-info{padding:14px 16px 12px;background:#fffdf8;border-bottom:1px solid #d5cbb9;}
+.oai-settings-frequent-info>b{display:block;color:#72581e;font-size:15px;font-weight:900;}
+.oai-settings-frequent-info p{margin:6px 0 0;color:#5e6879;font-size:12.5px;font-weight:700;line-height:1.55;word-break:keep-all;}
+.oai-settings-frequent-list{display:flex;flex-direction:column;background:#fff;}
+.oai-settings-frequent-empty{padding:14px 16px;color:#7b8492;font-size:12.5px;font-weight:750;line-height:1.45;}
+.oai-settings-frequent-item{display:flex;align-items:center;gap:10px;min-height:58px;padding:10px 12px 10px 16px;border-top:1px solid #ece5d8;}
+.oai-settings-frequent-item:first-child{border-top:0;}
+.oai-settings-frequent-item>span{min-width:0;flex:1;}
+.oai-settings-frequent-item b{display:block;color:#17213a;font-size:14px;font-weight:900;overflow:hidden;text-overflow:ellipsis;white-space:nowrap;}
+.oai-settings-frequent-item small{display:block;margin-top:3px;color:#788292;font-size:11.5px;font-weight:650;overflow:hidden;text-overflow:ellipsis;white-space:nowrap;}
+.oai-settings-frequent-item button{width:34px;height:34px;flex:0 0 34px;border:1.5px solid #c8a39f;border-radius:50%;background:#fff;color:#a63b31;font-size:20px;font-weight:900;line-height:1;}
+.oai-settings-frequent-actions{display:grid;grid-template-columns:1fr 1fr;gap:8px;padding:12px 14px 14px;border-top:1px solid #d5cbb9;background:#fbf8f1;}
+.oai-settings-frequent-actions button{min-height:44px;padding:8px;border:1.5px solid #b7a16f;border-radius:12px;background:#fff;color:#5f4a20;font-family:inherit;font-size:12.5px;font-weight:900;line-height:1.25;}
+@media(max-width:380px){.oai-settings-frequent-actions{grid-template-columns:1fr;}}
+#rs-start-waypoint-tools.rs-drag-slot{grid-column:2!important;grid-row:1!important;align-self:stretch!important;}

diff --git a/sw.js b/sw.js
@@ -1,5 +1,5 @@
-const CACHE_VERSION = 'catholic-way-V8-1-14-843';
-const ASSET_VERSION = 'V8-1-14-843';
+const CACHE_VERSION = 'catholic-way-V8-1-14-844';
+const ASSET_VERSION = 'V8-1-14-844';
 
 /* V8-1-14-693: service worker cache strategy overview.
    - APP_SHELL: first-screen and internal helper files.
